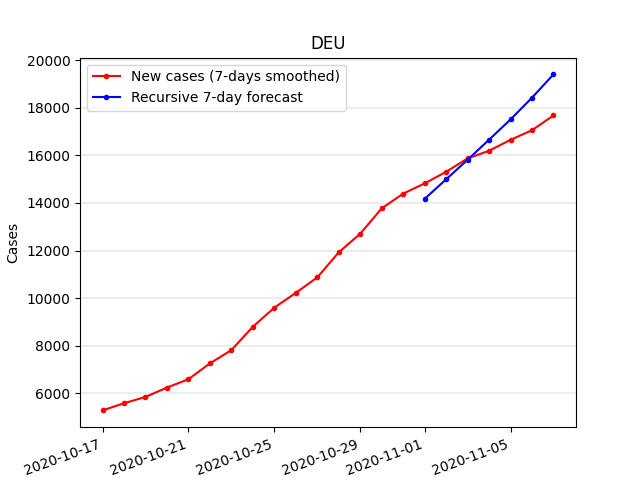
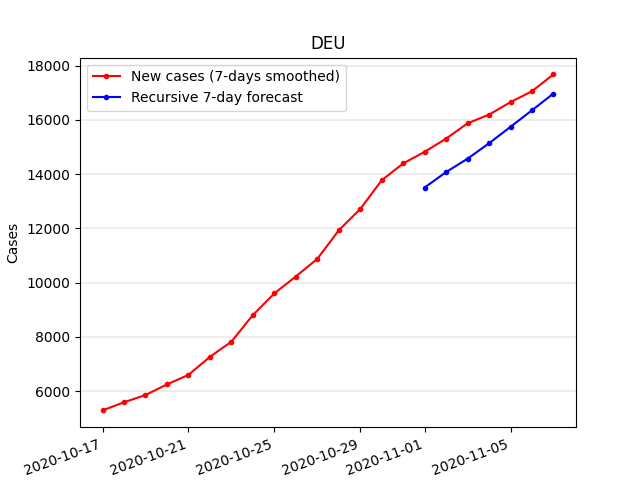
fix: cleanup

diff --git a/lstm/lstm_all_countries.py b/lstm/lstm_all_countries.py
@@ -1,7 +1,7 @@
 from numpy.random import seed
-seed(5)
+seed(1)
 from tensorflow import random as tf_random
-tf_random.set_seed(4)
+tf_random.set_seed(1)
 
 import pandas as pd
 import json
@@ -74,13 +74,13 @@ euro_data["date"] = euro_data["date"].apply(date_to_number)
 euro_data = euro_data[euro_data["date"] <= date_to_number(end_date)]
 
 # Scale chosen features
-forecast_columns = ["date", "latitude", "longitude", "population", "new_cases_smoothed", "iso_code"]
-scale_columns = ["date", "latitude", "longitude", "population", "new_cases_smoothed"]
+forecast_columns = ["date", "latitude", "longitude", "population", "stringency_index", "new_cases_smoothed", "iso_code"]
+scale_columns = ["date", "latitude", "longitude", "population", "stringency_index", "new_cases_smoothed"]
 forecast_data = euro_data[forecast_columns].copy(deep=True)
 scaler = MinMaxScaler(feature_range=(0, 1))
 forecast_data[scale_columns] = scaler.fit_transform(forecast_data[scale_columns])
 
-forecast_data = series_to_in_out_pairs(forecast_data, n_in=7, n_out=1, leave_cols=["date", "latitude", "longitude", "population", "iso_code"])
+forecast_data = series_to_in_out_pairs(forecast_data, n_in=7, n_out=1, leave_cols=["date", "latitude", "longitude", "population", "stringency_index", "iso_code"])
 
 
 def date_scaling(d):
@@ -108,7 +108,7 @@ test = test_df.values
 
 n_lag_days = 7
 n_daily_features = 1
-n_single_features = 4
+n_single_features = 5
 n_obs = n_lag_days * n_daily_features + n_single_features  # 11 in this case
 
 train_x, train_y = train[:, : n_obs], train[:, -1]
@@ -155,7 +155,7 @@ mae = mean_absolute_error(y_hat, y)
 print("\nTest-set 1 step ahead MAE: {:.3f}\n".format(mae))
 
 # Evaluate on aggregated set for all of Europe for first week of november
-euro_mean_data = forecast_data.groupby("date")[["latitude", "longitude"]].mean().reset_index()
+euro_mean_data = forecast_data.groupby("date")[["latitude", "longitude", "stringency_index"]].mean().reset_index()
 euro_sum_cols = ["population", "new_cases_smoothed_(t-7)",
                  "new_cases_smoothed_(t-6)",
                  "new_cases_smoothed_(t-5)",

diff --git a/preprocessing/preprocessing.py b/preprocessing/preprocessing.py
@@ -75,7 +75,6 @@ euroData = euroData.reset_index(drop=True)
 
 # Fill stringency index, assuming it was 0 in the end of 2019
 firstRowsAllCountriesIndex = euroData[euroData["date"] == "2019-12-31"].index
-print(firstRowsAllCountriesIndex)
 for i in firstRowsAllCountriesIndex:
     euroData["stringency_index"].iloc[i] = 0  # Set stringency index to 0 for 2019-12-31 for all countries
 euroData[["stringency_index"]] = euroData[["stringency_index"]].fillna(method="ffill")

diff --git a/preprocessing/stringency_plots.py b/preprocessing/stringency_plots.py
@@ -12,8 +12,6 @@ data = data[["date", "iso_code", "stringency_index"]]
 # data = data[data["date"] >= "2020-03-01"]
 # data = data[data["date"] <= "2020-10-31"]
 
-data.info()
-
 for code in euro_codes:
     country_data = data[data["iso_code"] == code]
     plt.clf()
